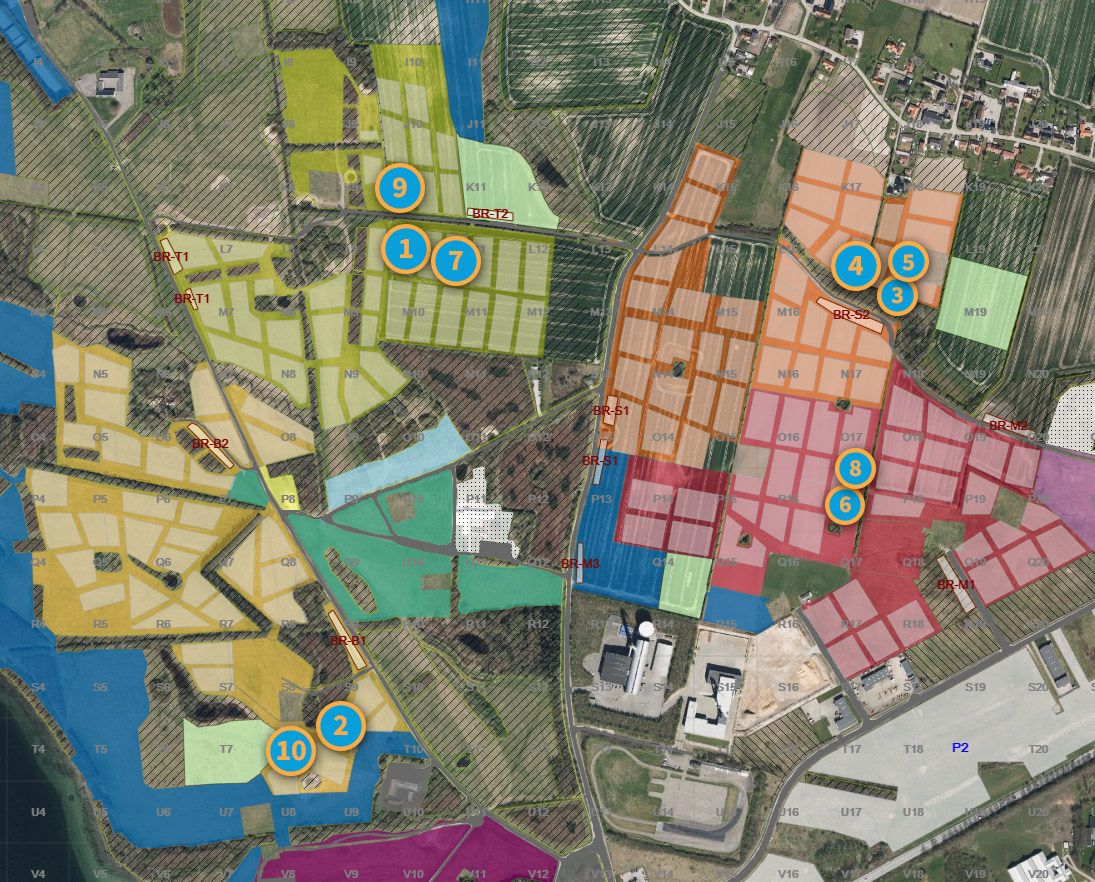
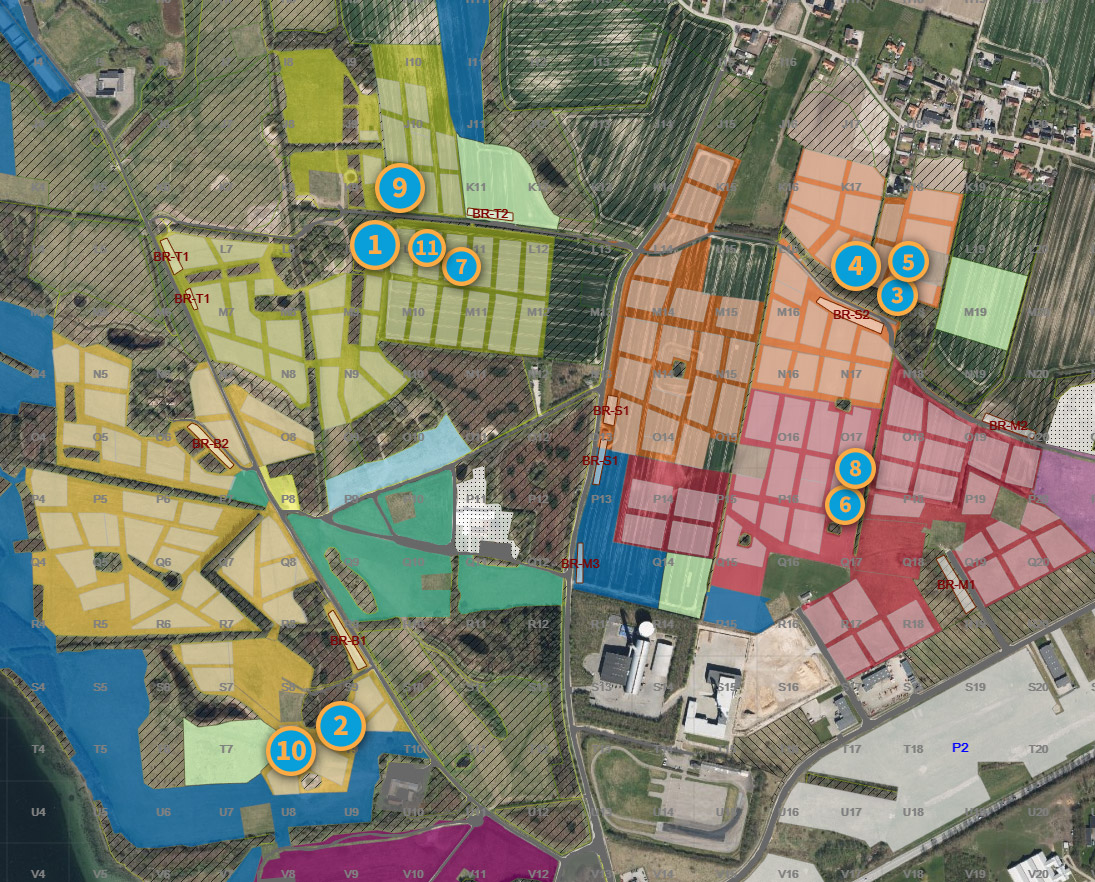
Updated map with Skarridsoe Gruppe and price for 24 timer

Changed region(s): [[0.3105, 0.2449, 0.4658, 0.3367]]

diff --git a/blog/maerker-sl2017/index.html b/blog/maerker-sl2017/index.html
@@ -143,7 +143,7 @@ image: maerker-spejdernes-lejr-2017-full.jpg
             <strong>Afhentes:</strong> i Tårnet i kvarteret Blåvand Fyr/Varde kommune<br>
             <strong>Betalingsmetoder:</strong> MobilePay, kontant, bankoverførsler<br>
             <strong>Kontakt:</strong> Sigrid Wille på <a href="mailto:sspoelgod@hotmail.com">sspoelgod@hotmail.com</a><br>
-            <strong>Pris:</strong> 20 kr/stk.
+            <strong>Pris:</strong> 20 kr/stk. &mdash; undtagen 24 timer, der koster 25 kr/stk.
         </p>
         <div class="blog-badges">
             {% include maerkeIncludeAside.html maerke="flagmaerket" %}
@@ -163,6 +163,21 @@ image: maerker-spejdernes-lejr-2017-full.jpg
         </p>
         <div class="blog-badges">
             {% include maerkeIncludeAside.html maerke="baalvogter" %}
+        </div>
+    </div>
+
+    <h2>Skarridsø Gruppe (11)</h2>
+    <div class="badge-seller">
+        <p>
+            <strong>Afhentes:</strong> i kvarteret Vandtårnet i Tårnet<br>
+            <strong>Betalingsmetoder:</strong> MobilePay<br>
+            <strong>Kontakt:</strong> SMS til Henrik på <a href="tel:+4551643759">51 64 37 59</a> eller via mail <a href="mailto:dexter@live.dk">dexter@live.dk</a><br>
+            <strong>Pris:</strong> 20 kr/stk.
+        </p>
+        <div class="blog-badges">
+            {% include maerkeIncludeAside.html maerke="baalmad" %}
+            {% include maerkeIncludeAside.html maerke="hjaelpermaerke" %}
+            {% include maerkeIncludeAside.html maerke="baalbroed" %}
         </div>
     </div>
     <br>
